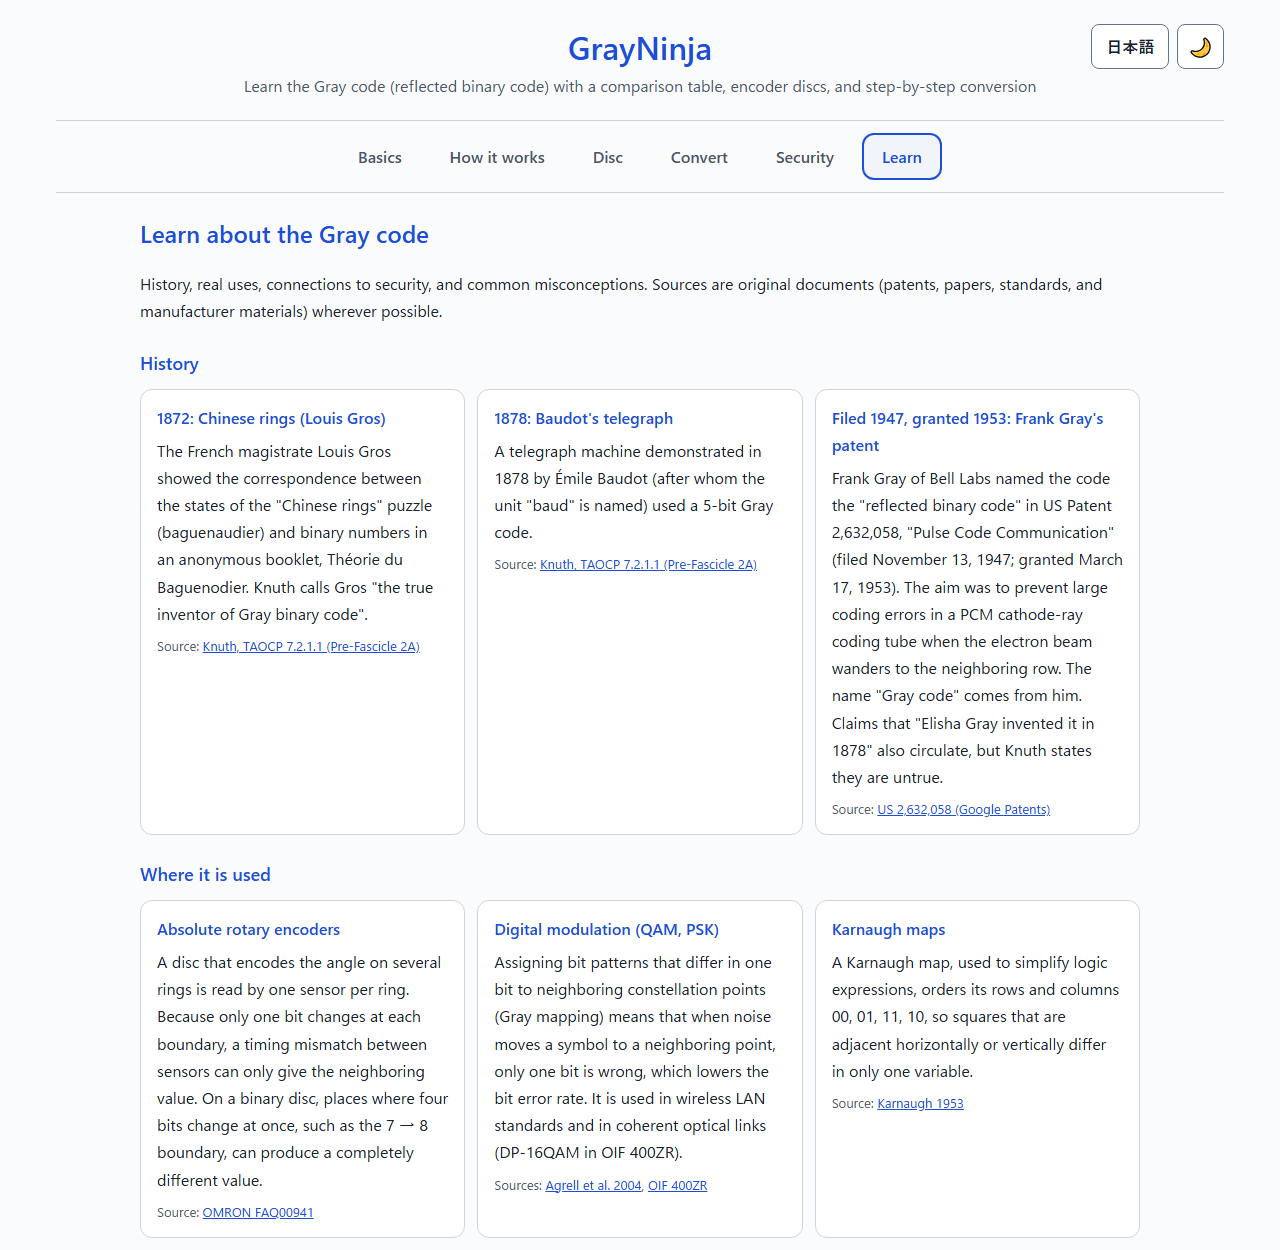
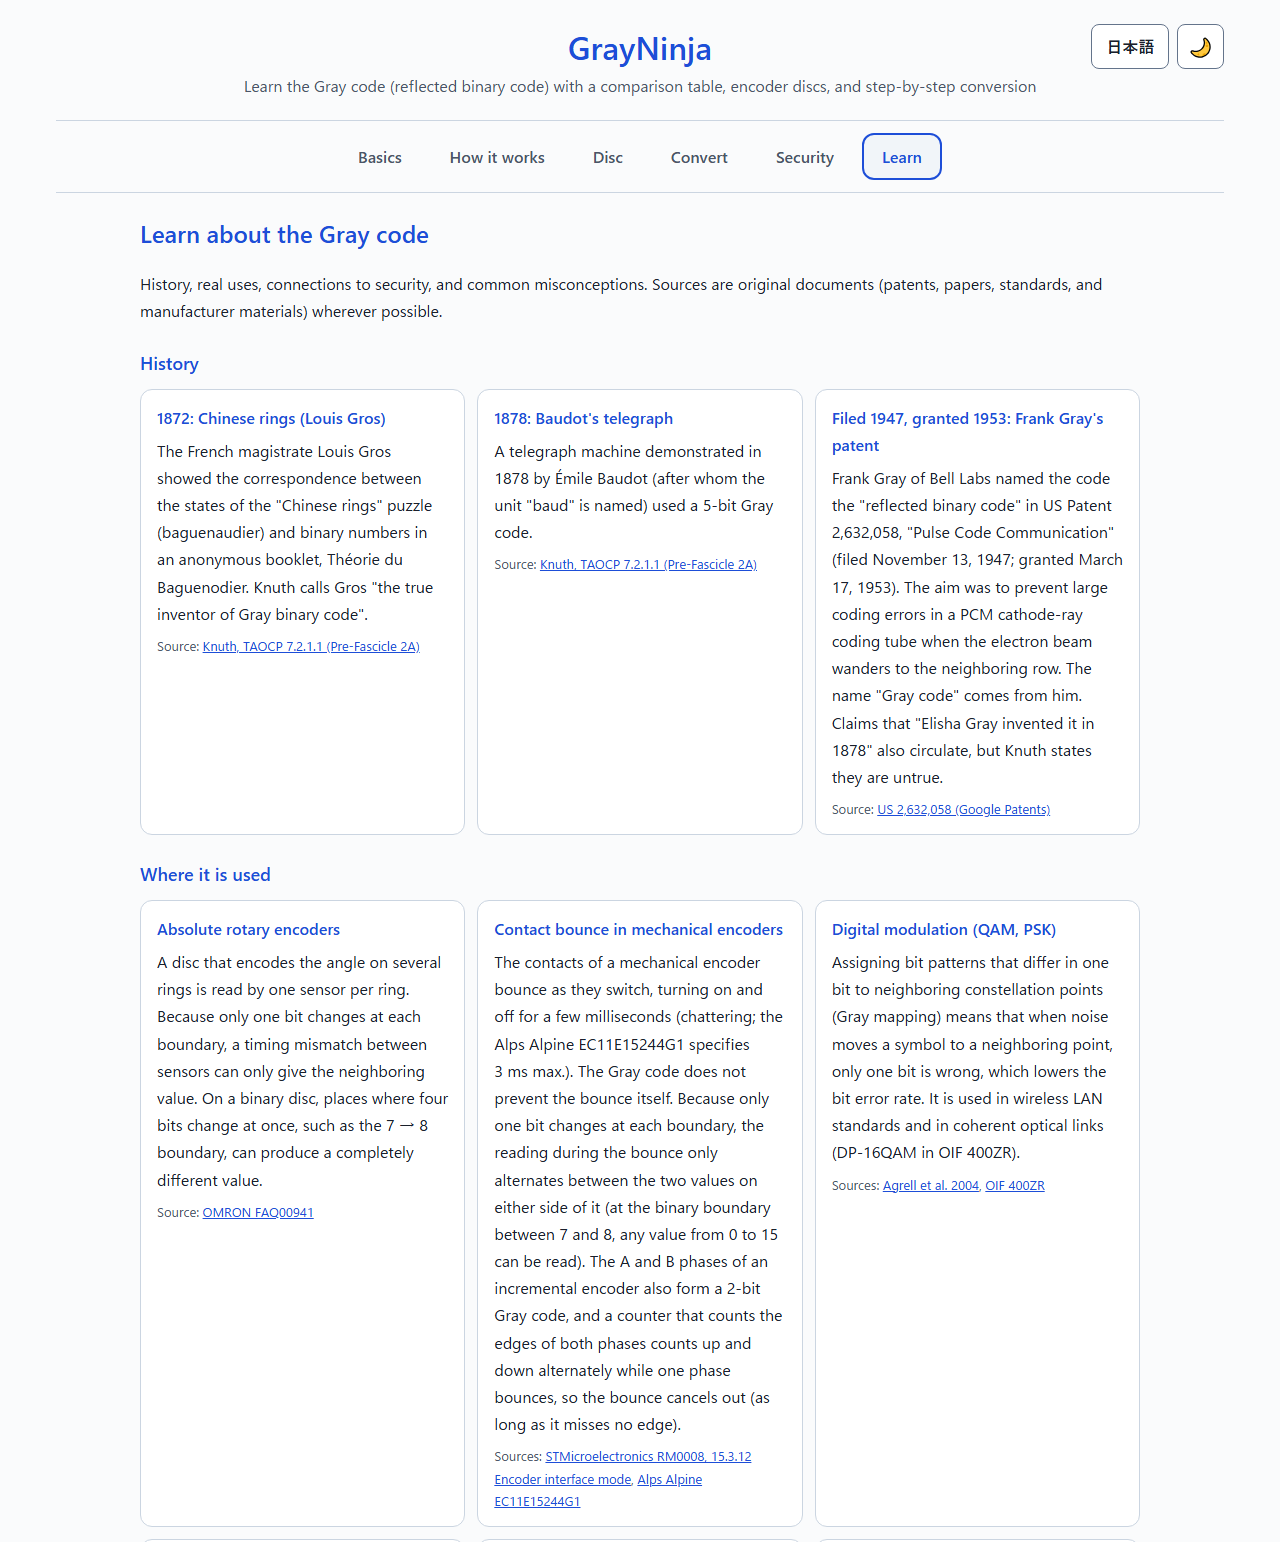
座学とREADMEにチャタリングとの関係を加える
- 座学「使われている場面」に「機械式エンコーダーのチャタリング」のカード、
  「よくある誤解」に「チャタリングを防ぐ」を追加（日英。出典はSTのRM0008とアルプスアルパインEC11）
- READMEに「接点が跳ねたとき（チャタリング）」の節を追加し、関連記事
  「チャタリング対策を整理する」（akademeia.info/?p=53421）へリンク（日英）
- 節の値（跳ねている間に読みうる値の数、A相・B相の並び）をテストで計算部と突き合わせる
- 座学のスクリーンショット（日英）を撮り直す

diff --git a/js/messages.js b/js/messages.js
@@ -251,6 +251,9 @@
     'u.encoder.t': 'ロータリーエンコーダー（絶対型）',
     'u.encoder.p': '回転角を複数のリングで符号化した円板を、リングごとのセンサーで読みます。境目で1ビットしか変わらないので、読み取りのタイミングがずれても隣の値にしかなりません。2進の円板では、7 → 8の境目のように4ビットが同時に変わる場所で、まったく違う値を読むおそれがあります。',
     'u.encoder.s': '出典: [オムロンFAQ00941](https://www.ia.omron.com/support/faq/answer/34/faq00941/index.html)',
+    'u.bounce.t': '機械式エンコーダーのチャタリング',
+    'u.bounce.p': '機械式のエンコーダーは、接点が切り替わるときに跳ねて、オンとオフを数ミリ秒くり返します（チャタリング。アルプスアルパインのEC11E15244G1の仕様は3ms以下）。グレイコードは跳ねそのものは防ぎません。境目で変わるのが1ビットなので、跳ねている間の読み値が境目の両側の2つの値を行き来するだけで済みます（2進の7と8の境目では、0〜15のどの値も読むおそれがあります）。インクリメンタル型のA相・B相も2ビットのグレイコードで、両方の相の切り替わりで数えるカウンターは、片方の相の跳ねを+1と−1の交互で打ち消します（切り替わりを読み落とさない場合）。',
+    'u.bounce.s': '出典: [STMicroelectronics RM0008 15.3.12（Encoder interface mode）](https://www.st.com/resource/en/reference_manual/rm0008-stm32f101xx-stm32f102xx-stm32f103xx-stm32f105xx-and-stm32f107xx-advanced-armbased-32bit-mcus-stmicroelectronics.pdf)、[アルプスアルパインEC11E15244G1](https://tech.alpsalpine.com/j/products/detail/EC11E15244G1/)',
     'u.qam.t': 'デジタル変調（QAM・PSK）',
     'u.qam.p': '隣り合う信号点に1ビット違いのビット列を割り当てる（グレイ配置）と、雑音で隣の点に誤ったときのビット誤りが1ビットで済み、ビット誤り率が下がります。無線LANの規格や、コヒーレント光通信（OIF 400ZRのDP-16QAM）でも使われます。',
     'u.qam.s': '出典: [Agrellほか（2004）](https://doi.org/10.1109/TIT.2004.838367)、[OIF 400ZR](https://www.oiforum.com/wp-content/uploads/OIF-400ZR-01.0_reduced2.pdf)',
@@ -293,7 +296,8 @@
     'm.fault': '**「故障注入（フォールト攻撃）に強い」** → 逆です。故障注入の対策では、状態どうしのハミング距離を大きく取ります。隣の状態が1ビット違いの割り当ては、1ビットの反転で別の正しい状態へ移れてしまいます（[Jayasenaほか（ICCD 2022）](https://www.cise.ufl.edu/research/cad/Publications/iccd22lfi.pdf)）。',
     'm.ecc': '**「誤りを検出・訂正できる」** → できません。2ⁿ通りをすべて使うので、1ビットの誤りは別の正しい符号語になります。',
     'm.neighbor': '**「1ビットの誤りなら隣の値にしかならない」** → 向きが逆です。正しい性質は「隣の値への読み違いが1ビットで済む」で、0000の最上位ビットが反転した1000は値15を表します。',
-    'm.adc': '**「A/D変換器の量子化誤差を減らす」** → 減らしません。減るのは、比較器の誤りによる大きな読み違いです。'
+    'm.adc': '**「A/D変換器の量子化誤差を減らす」** → 減らしません。減るのは、比較器の誤りによる大きな読み違いです。',
+    'm.bounce': '**「チャタリング（接点の跳ね）を防ぐ」** → 跳ねそのものは防ぎません。防げるのは跳ねている間に遠い値を読むことで、読み値は境目の両側の2つの値を行き来します。値が落ち着くまでの扱いには、デバウンスが別に必要です。'
   };
 
   const en = {
@@ -544,6 +548,9 @@
     'u.encoder.t': 'Absolute rotary encoders',
     'u.encoder.p': 'A disc that encodes the angle on several rings is read by one sensor per ring. Because only one bit changes at each boundary, a timing mismatch between sensors can only give the neighboring value. On a binary disc, places where four bits change at once, such as the 7 → 8 boundary, can produce a completely different value.',
     'u.encoder.s': 'Source: [OMRON FAQ00941](https://www.ia.omron.com/support/faq/answer/34/faq00941/index.html)',
+    'u.bounce.t': 'Contact bounce in mechanical encoders',
+    'u.bounce.p': 'The contacts of a mechanical encoder bounce as they switch, turning on and off for a few milliseconds (chattering; the Alps Alpine EC11E15244G1 specifies 3 ms max.). The Gray code does not prevent the bounce itself. Because only one bit changes at each boundary, the reading during the bounce only alternates between the two values on either side of it (at the binary boundary between 7 and 8, any value from 0 to 15 can be read). The A and B phases of an incremental encoder also form a 2-bit Gray code, and a counter that counts the edges of both phases counts up and down alternately while one phase bounces, so the bounce cancels out (as long as it misses no edge).',
+    'u.bounce.s': 'Sources: [STMicroelectronics RM0008, 15.3.12 Encoder interface mode](https://www.st.com/resource/en/reference_manual/rm0008-stm32f101xx-stm32f102xx-stm32f103xx-stm32f105xx-and-stm32f107xx-advanced-armbased-32bit-mcus-stmicroelectronics.pdf), [Alps Alpine EC11E15244G1](https://tech.alpsalpine.com/e/products/detail/EC11E15244G1/)',
     'u.qam.t': 'Digital modulation (QAM, PSK)',
     'u.qam.p': 'Assigning bit patterns that differ in one bit to neighboring constellation points (Gray mapping) means that when noise moves a symbol to a neighboring point, only one bit is wrong, which lowers the bit error rate. It is used in wireless LAN standards and in coherent optical links (DP-16QAM in OIF 400ZR).',
     'u.qam.s': 'Sources: [Agrell et al. 2004](https://doi.org/10.1109/TIT.2004.838367), [OIF 400ZR](https://www.oiforum.com/wp-content/uploads/OIF-400ZR-01.0_reduced2.pdf)',
@@ -586,7 +593,8 @@
     'm.fault': '**"It is robust against fault injection"** → The opposite. Fault-injection countermeasures keep a large Hamming distance between states. An assignment where neighboring states differ by one bit lets a single bit flip move to another valid state ([Jayasena et al., ICCD 2022](https://www.cise.ufl.edu/research/cad/Publications/iccd22lfi.pdf)).',
     'm.ecc': '**"It can detect or correct errors"** → It cannot. All 2ⁿ patterns are used, so a single-bit error yields another valid codeword.',
     'm.neighbor': '**"A single-bit error only gives a neighboring value"** → The direction is reversed. The true property is that "misreading as a neighboring value costs only one bit"; flipping the top bit of 0000 gives 1000, which represents 15.',
-    'm.adc': '**"It reduces the quantization error of A/D converters"** → It does not. What it reduces is large misreadings caused by comparator errors.'
+    'm.adc': '**"It reduces the quantization error of A/D converters"** → It does not. What it reduces is large misreadings caused by comparator errors.',
+    'm.bounce': '**"It prevents contact bounce (chattering)"** → It does not prevent the bounce itself. What it prevents is reading a distant value while a contact bounces: the reading only alternates between the two values on either side of the boundary. A separate debounce step is still needed until the value settles.'
   };
 
   const DICTS = { ja, en };

diff --git a/js/app.js b/js/app.js
@@ -1121,10 +1121,10 @@
   // ── 座学タブ（カードは辞書のキーから作る）──
   const LEARN = {
     learnHistory: ['h.gros', 'h.baudot', 'h.gray'],
-    learnUses: ['u.encoder', 'u.qam', 'u.karnaugh', 'u.fifo', 'u.adc', 'u.eeprom', 'u.nand', 'u.ga', 'u.light', 'u.puzzle'],
+    learnUses: ['u.encoder', 'u.bounce', 'u.qam', 'u.karnaugh', 'u.fifo', 'u.adc', 'u.eeprom', 'u.nand', 'u.ga', 'u.light', 'u.puzzle'],
     learnSecurity: ['s.dip', 's.puf', 's.power']
   };
-  const MYTHS = ['m.sca', 'm.fault', 'm.ecc', 'm.neighbor', 'm.adc'];
+  const MYTHS = ['m.sca', 'm.fault', 'm.ecc', 'm.neighbor', 'm.adc', 'm.bounce'];
 
   function renderLearn() {
     for (const [id, keys] of Object.entries(LEARN)) {

diff --git a/CLAUDE.md b/CLAUDE.md
@@ -37,4 +37,4 @@ There is a single angle `disc.phi`. The read line is fixed at the top and the di
 - Every user-visible string goes into both dictionaries in `messages.js`
 - Colors are CSS variables in `style.css` (light in `:root`, dark in both the `prefers-color-scheme` block and `:root[data-theme="dark"]`, which must stay identical). Text contrast must stay ≥ 4.5:1 (checked by `test/css.test.js`)
 - Keyboard shortcuts on the Basics tab must not fire when a button, input, tab or other focusable element has focus
-- Claims in the Learn tab and README must be backed by primary sources (patents, papers, standards, manufacturer documents). Do not reintroduce claims such as "Gray code is a side-channel countermeasure", "it is robust against fault injection", or "it corrects errors"
+- Claims in the Learn tab and README must be backed by primary sources (patents, papers, standards, manufacturer documents). Do not reintroduce claims such as "Gray code is a side-channel countermeasure", "it is robust against fault injection", "it corrects errors", or "it prevents contact bounce (chattering)" (it only keeps a misreading during the bounce within the two values on either side of a boundary)
